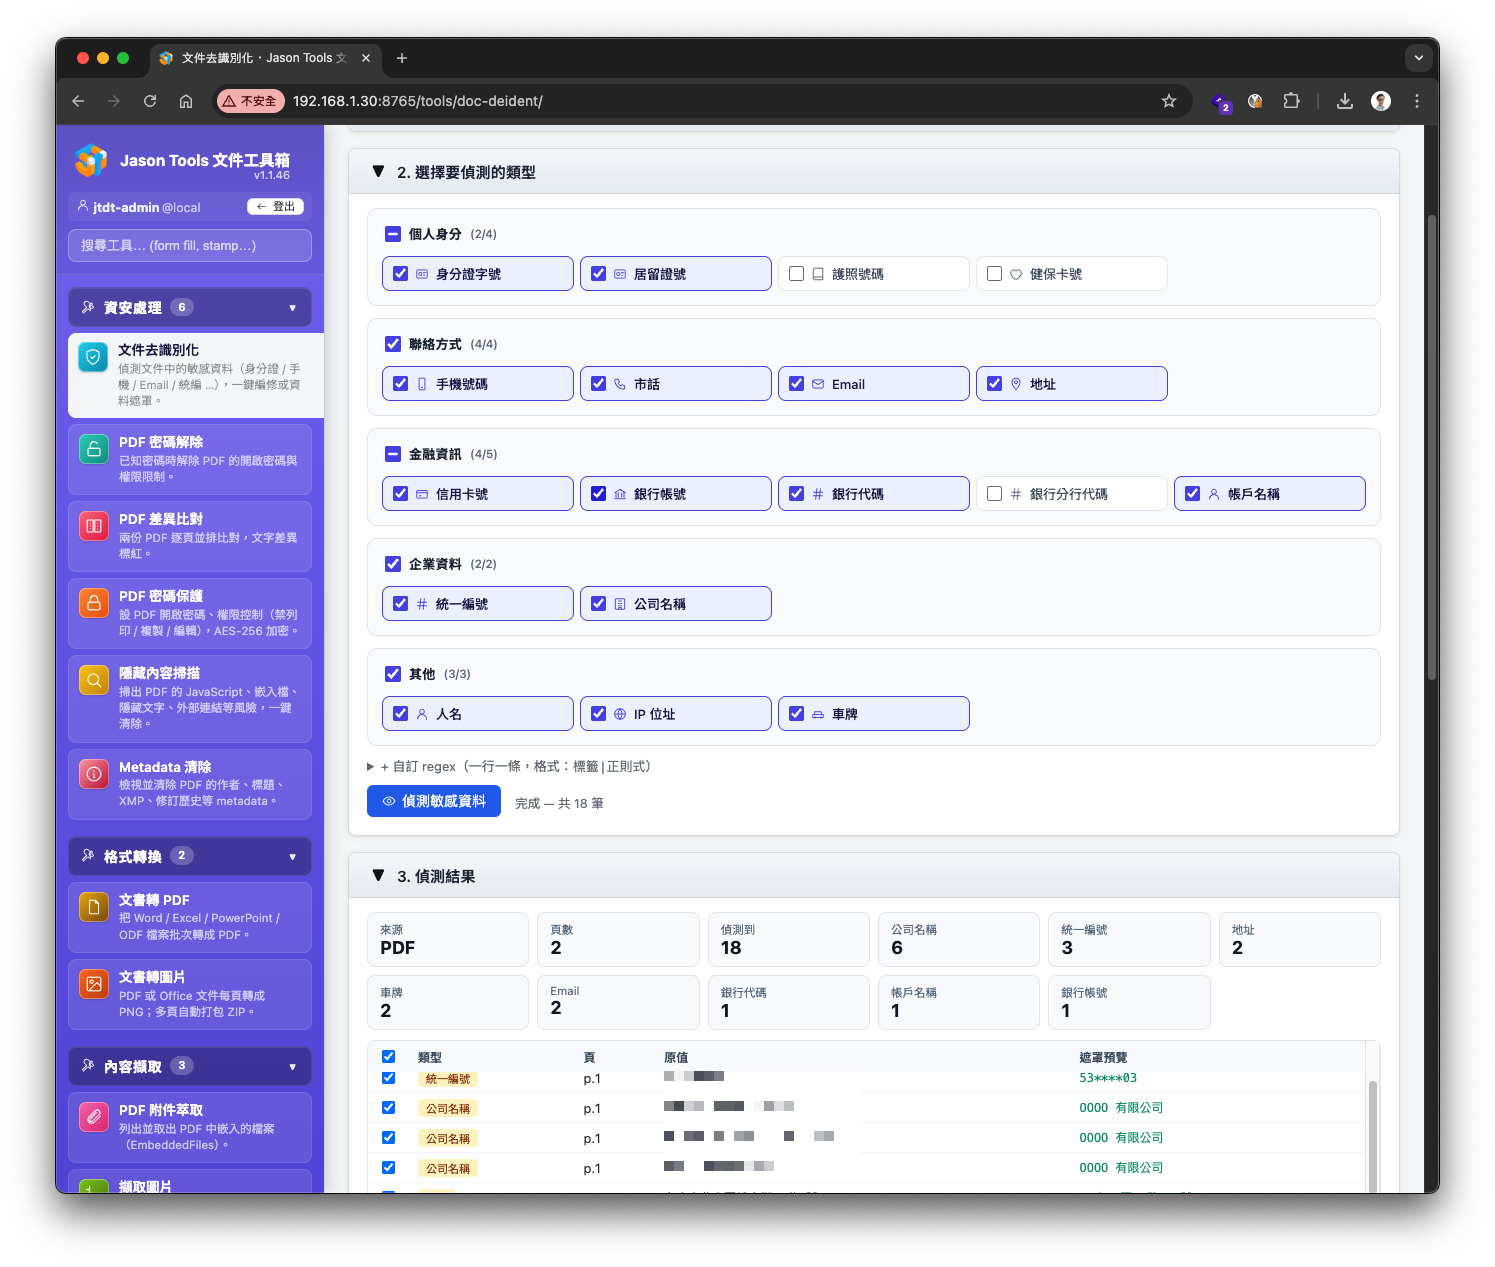
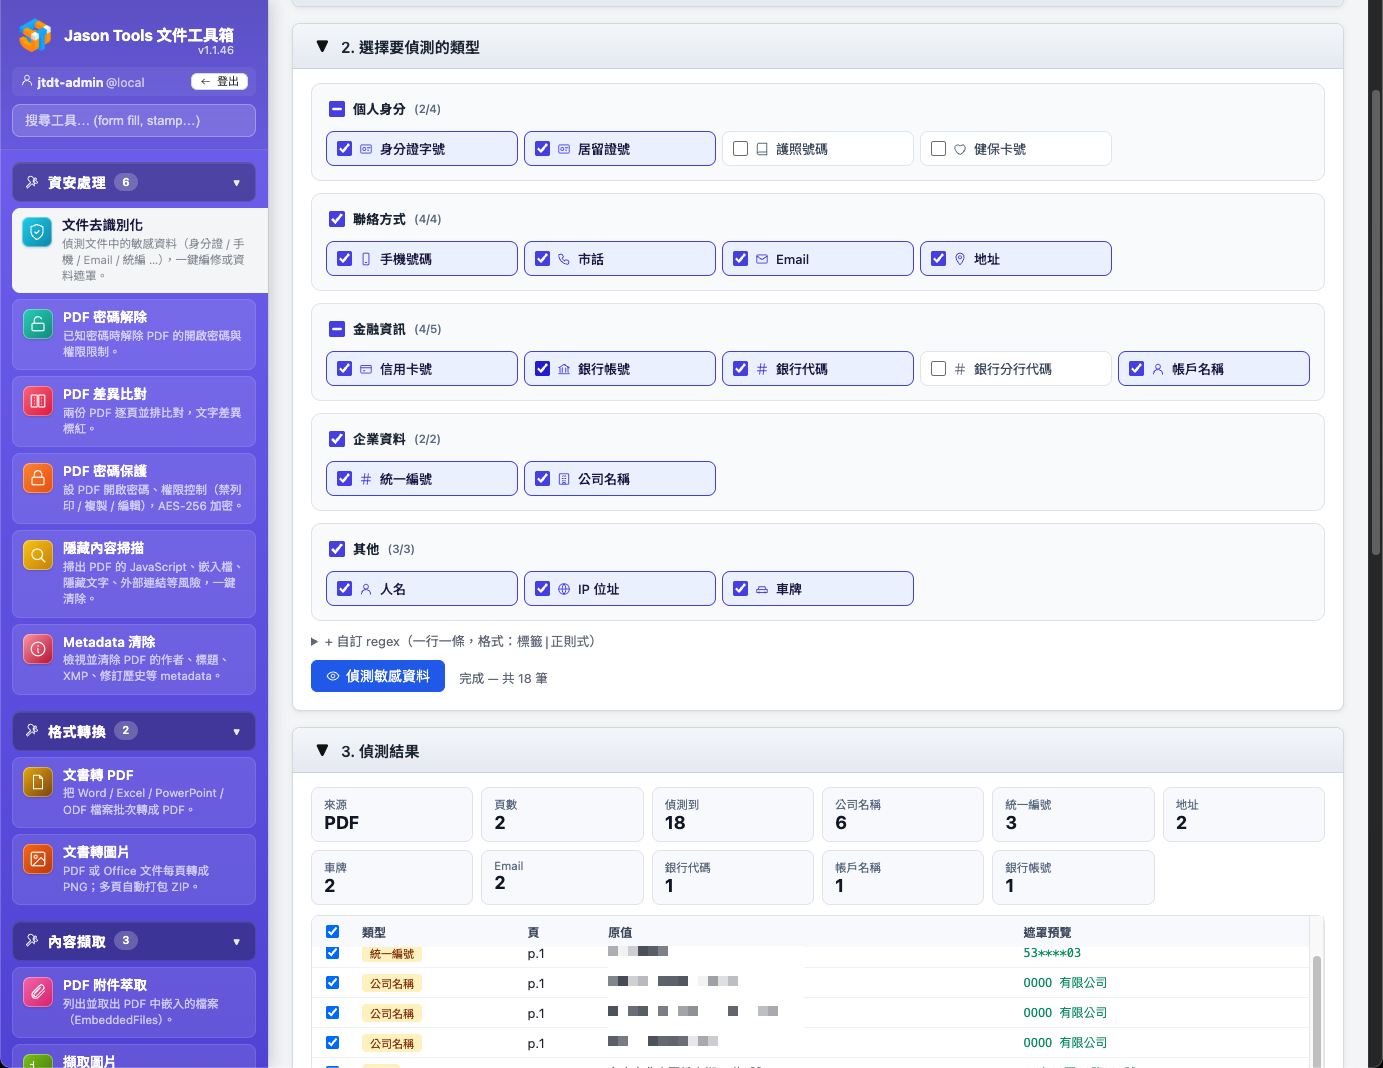
docs: 裁掉螢幕截圖瀏覽器 chrome + macOS 風格陰影
- 11 張 screenshots 全部裁掉瀏覽器 chrome（上方標籤列 + URL 列「不安全」警告）跟左右下黑邊框，只留 app content
- .ss-img / .hero-shot 改用多層堆疊陰影模擬 macOS window shadow（細光環 + 緊貼 + 中段 + 寬大環境陰影），.ss-img 還加 hover 微浮起

diff --git a/docs/style.css b/docs/style.css
@@ -219,8 +219,12 @@ code {
   max-width: 1080px;
   border-radius: 14px;
   overflow: hidden;
-  box-shadow: 0 30px 80px rgba(0,0,0,0.5),
-              0 0 0 1px rgba(255,255,255,0.08);
+  /* macOS-style stacked window shadow: hairline ring + tight + mid + ambient */
+  box-shadow:
+    0 0 0 1px rgba(255,255,255,0.10),
+    0 1px 2px rgba(0,0,0,0.25),
+    0 8px 24px rgba(0,0,0,0.35),
+    0 40px 80px -10px rgba(0,0,0,0.55);
   background: rgba(255,255,255,0.04);
 }
 .hero-shot img { width: 100%; display: block; }
@@ -537,9 +541,24 @@ code {
   position: relative;
   border-radius: 12px;
   overflow: hidden;
-  box-shadow: 0 20px 50px rgba(0,0,0,0.5),
-              0 0 0 1px rgba(255,255,255,0.06);
+  /* macOS window shadow on dark background:
+     thin ring → tight → mid → wide ambient (drops down + spreads) */
+  box-shadow:
+    0 0 0 1px rgba(255,255,255,0.08),
+    0 1px 2px rgba(0,0,0,0.25),
+    0 8px 20px rgba(0,0,0,0.35),
+    0 32px 64px -8px rgba(0,0,0,0.55);
   background: rgba(255,255,255,0.03);
+  transition: transform 0.4s cubic-bezier(.2,.8,.2,1),
+              box-shadow 0.4s cubic-bezier(.2,.8,.2,1);
+}
+.ss-img:hover {
+  transform: translateY(-2px);
+  box-shadow:
+    0 0 0 1px rgba(255,255,255,0.12),
+    0 2px 4px rgba(0,0,0,0.3),
+    0 12px 28px rgba(0,0,0,0.4),
+    0 48px 96px -10px rgba(0,0,0,0.6);
 }
 .ss-img img { width: 100%; display: block; }
 @media (max-width: 900px) {
